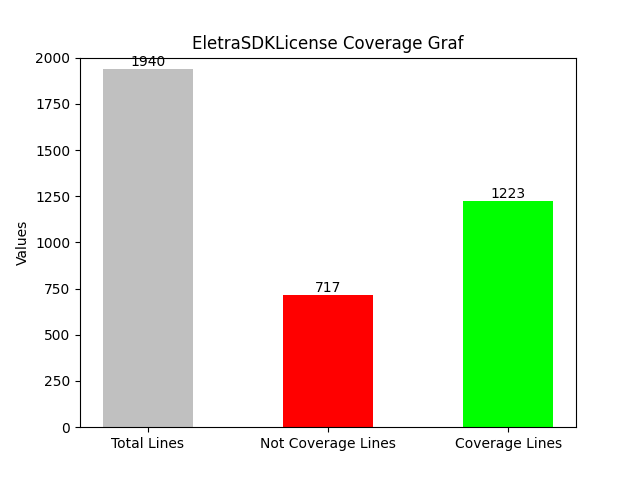
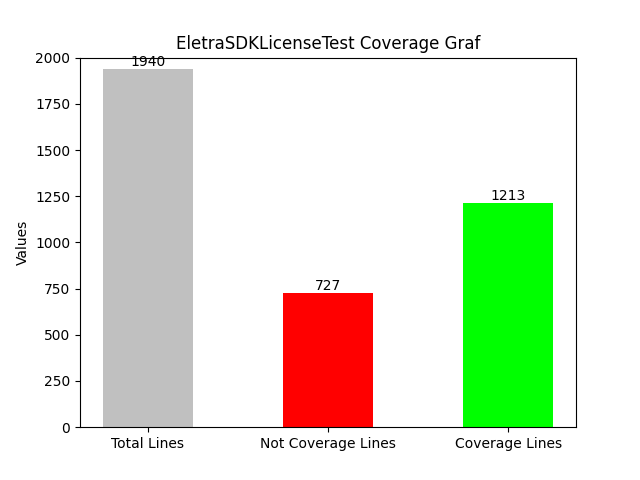
update info

Changed region(s): [[0.2812, 0.0625, 0.75, 0.125], [0.7188, 0.375, 0.8438, 0.4375], [0.4375, 0.5625, 0.5625, 0.625]]

diff --git a/README.md b/README.md
@@ -3,6 +3,6 @@
 ### O objetivo desse relatório é informar sobre as coberturas de teste do EletraSDKLicense. A cobertura é retirada pelo Software OpenCppCoverage. Como não divisão nesta lib todos os testes estão centralizados em um único executável fazendo assim com que haja uma cobertura geral.
 
 ### EletraSDKLicense
-Nas implementações há 1940 linhas nas quais 1223 linhas estão cobertas por testes, isso corresponde a 63% de linhas cobertas com testes, conforme o grafico abaixo:
+Nas implementações há 1940 linhas nas quais 1213 linhas estão cobertas por testes, isso corresponde a 62% de linhas cobertas com testes, conforme o grafico abaixo:
 
 ![Gráfico das cobeturas de teste do EletraSDKLicense](https://github.com/RaulSouza27/CoverageTestSDKLicense/blob/main/Images/EletraSDKLicense.png)
